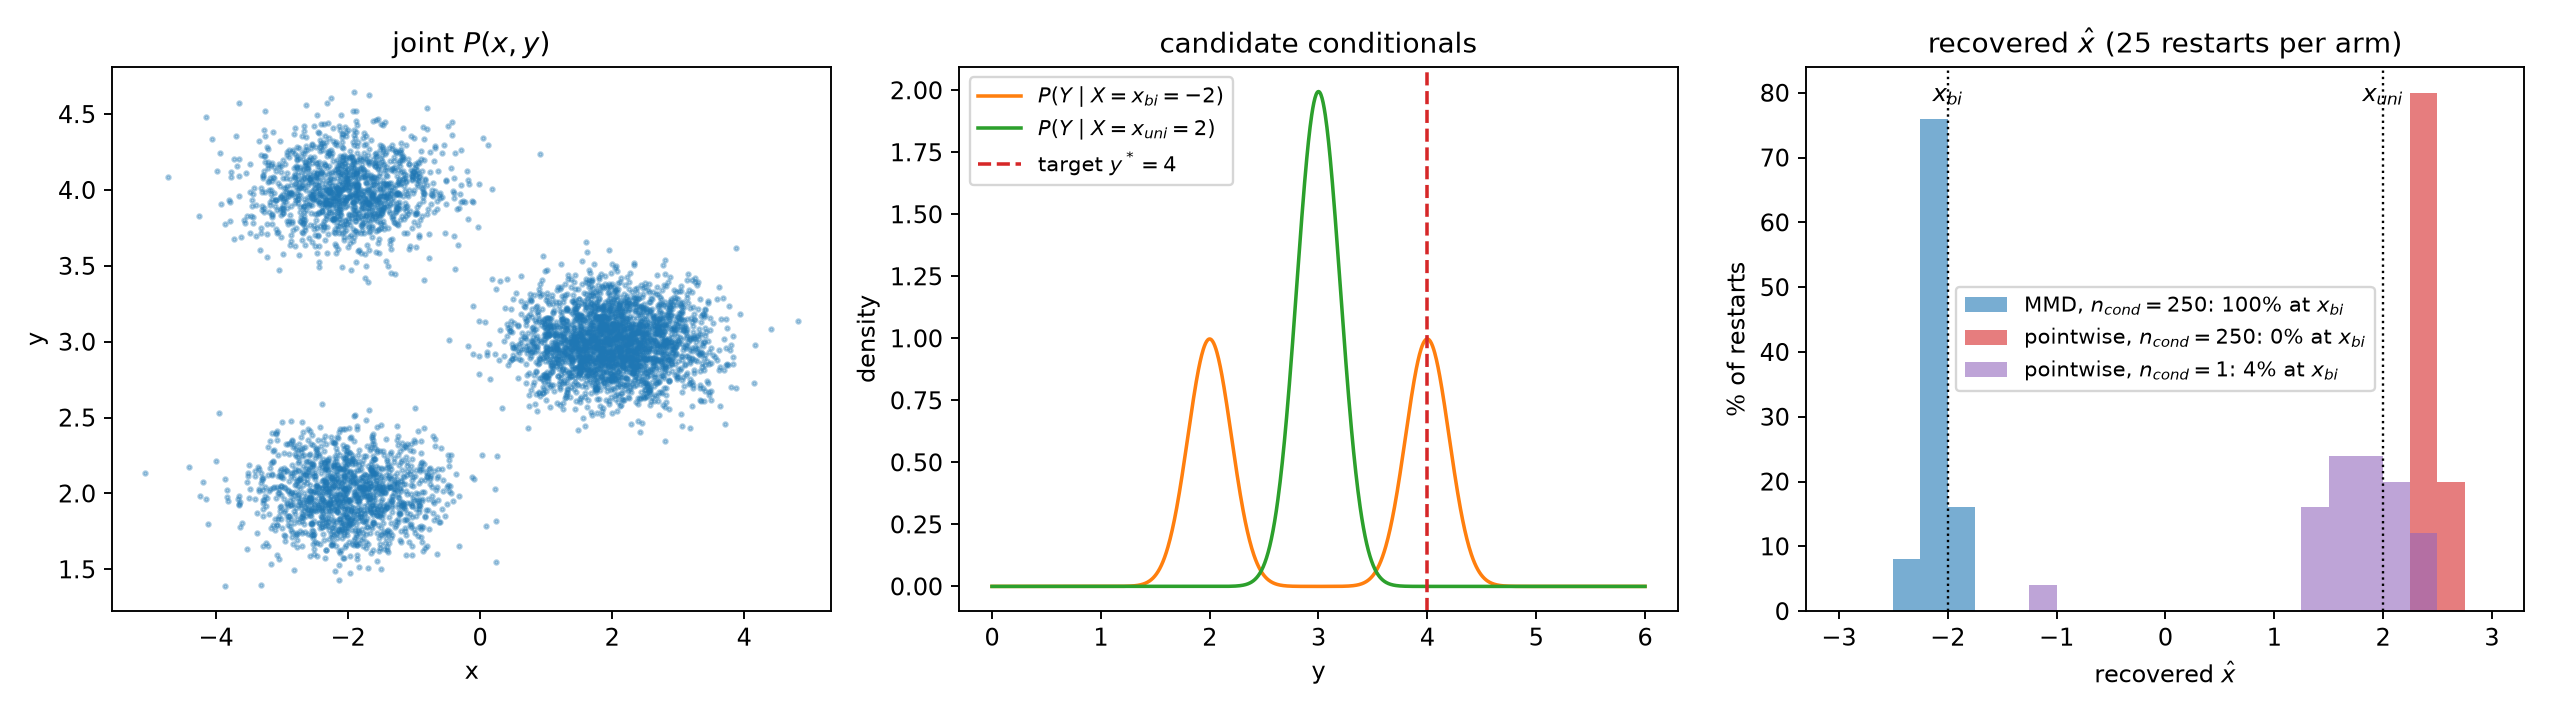
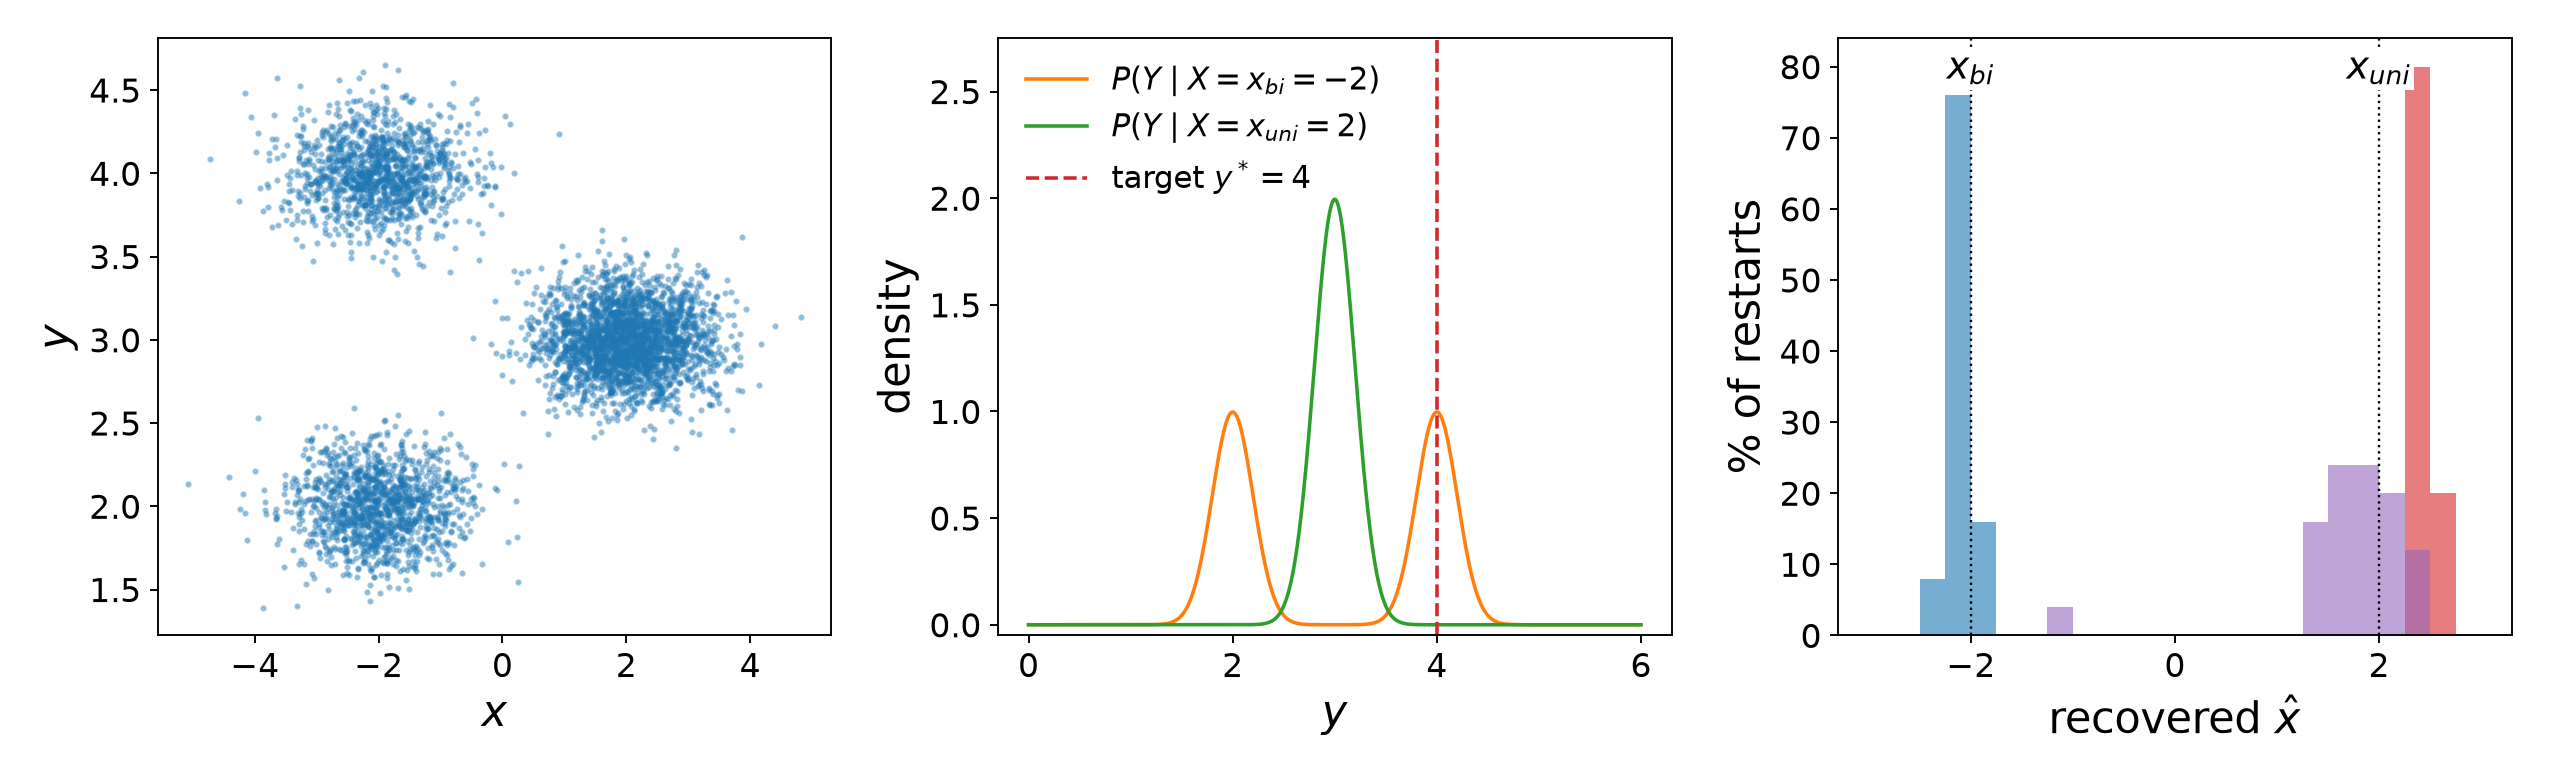
fig:nonstar: no titles, no legend on the right panel, larger text
Claude-Session: https://claude.ai/code/session_01HvEsdsDUh9QMnDc95kU7tB

diff --git a/experiments/synthetic/pipeline/plot_nonstar.py b/experiments/synthetic/pipeline/plot_nonstar.py
@@ -36,13 +36,15 @@ def main():
     y_star = float(cfg["target_means"].view(-1)[0])
     sx, sy = np.sqrt(S[:, 0, 0]), np.sqrt(S[:, 1, 1])     # diagonal covariances: Y | x keeps each component's y law
 
-    fig, ax = plt.subplots(1, 3, figsize=(15, 4.2))
+    plt.rcParams.update({"font.size": 15, "axes.labelsize": 18, "xtick.labelsize": 14, "ytick.labelsize": 14,
+                         "legend.fontsize": 13})
+    fig, ax = plt.subplots(1, 3, figsize=(15, 4.6))
     # left: the joint, 5,000 draws
     rng = np.random.default_rng(42)
     k = rng.choice(len(w), size=5000, p=w)
     xy = mu[k] + rng.standard_normal((5000, 2)) * np.stack([sx[k], sy[k]], 1)
     ax[0].scatter(xy[:, 0], xy[:, 1], s=3, alpha=0.35)
-    ax[0].set_xlabel("x"); ax[0].set_ylabel("y"); ax[0].set_title("joint $P(x, y)$")
+    ax[0].set_xlabel("$x$"); ax[0].set_ylabel("$y$")
 
     # middle: P(Y | X = x) at x_bi and x_uni (exact: component weights reweighted by the x-marginals)
     ys = np.linspace(0, 6, 1200)
@@ -54,7 +56,7 @@ def main():
     ax[1].plot(ys, cond_pdf(a.x_bi), color="#ff7f0e", label=f"$P(Y \\mid X = x_{{bi}} = {a.x_bi:g})$")
     ax[1].plot(ys, cond_pdf(a.x_uni), color="#2ca02c", label=f"$P(Y \\mid X = x_{{uni}} = {a.x_uni:g})$")
     ax[1].axvline(y_star, color="#d62728", ls="--", label=f"target $y^* = {y_star:g}$")
-    ax[1].set_xlabel("y"); ax[1].set_ylabel("density"); ax[1].legend(fontsize=9); ax[1].set_title("candidate conditionals")
+    ax[1].set_xlabel("$y$"); ax[1].set_ylabel("density"); ax[1].set_ylim(-0.05, 2.75); ax[1].legend(loc="upper left", ncol=1, frameon=False)
 
     # right: where the restarts land
     xs = {}
@@ -68,13 +70,13 @@ def main():
         if name in xs:
             v = xs[name]
             at_bi = np.mean(np.abs(v - a.x_bi) < np.abs(v - a.x_uni)) * 100
-            ax[2].hist(v, bins=bins, weights=np.full(len(v), 100 / len(v)), alpha=0.6, color=color,
-                       label=f"{label}: {at_bi:.0f}% at $x_{{bi}}$")
+            ax[2].hist(v, bins=bins, weights=np.full(len(v), 100 / len(v)), alpha=0.6, color=color)
+            print(f"[nonstar] {name} ({color}): {at_bi:.0f}% at x_bi")
     for x0, lbl in ((a.x_bi, "$x_{bi}$"), (a.x_uni, "$x_{uni}$")):
         ax[2].axvline(x0, color="k", ls=":", lw=1)
-        ax[2].text(x0, ax[2].get_ylim()[1] * 0.97, lbl, ha="center", va="top", fontsize=10)
+        ax[2].text(x0, ax[2].get_ylim()[1] * 0.98, lbl, ha="center", va="top", fontsize=16,
+                   bbox=dict(facecolor="white", edgecolor="none", pad=1))
     ax[2].set_xlabel(r"recovered $\hat x$"); ax[2].set_ylabel("% of restarts")
-    ax[2].set_title(f"recovered $\\hat x$ ({len(next(iter(xs.values())))} restarts per arm)"); ax[2].legend(fontsize=9)
     fig.tight_layout()
     os.makedirs(os.path.dirname(a.out) or ".", exist_ok=True)
     fig.savefig(a.out, dpi=170)
